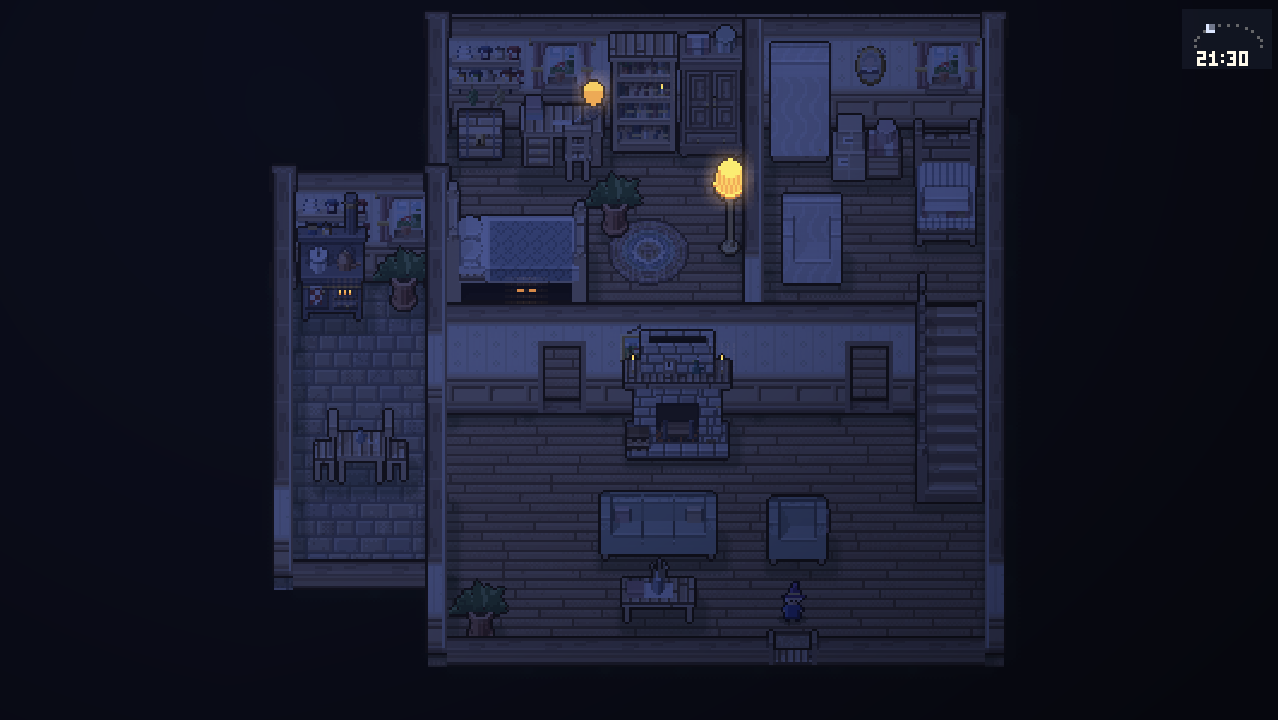
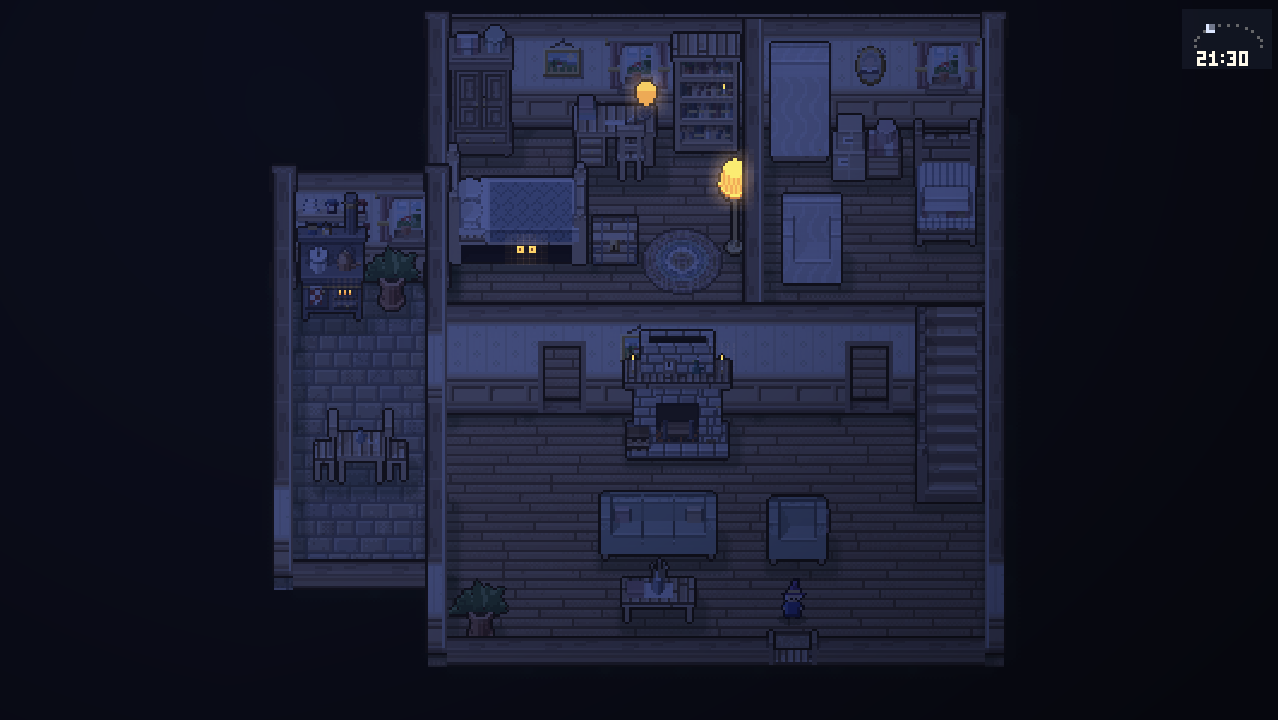
Close off the bedrooms, keep the stairs below the wall top, move the bed up
The wall between the bedrooms now runs to the back of the middle wall (its
end hidden behind it), so the rooms are fully separated and the strip behind
the middle wall no longer connects them. The stairs are cut at the wall's
height. The hero's bed moves up, the potted plant goes, and the furniture
along the back wall no longer overlaps.

Claude-Session: https://claude.ai/code/session_01Y3QepJTJgk9rCJ93wTDK78

Changed region(s): [[0.2746, 0.0306, 0.6103, 0.4278], [0.6103, 0.7944, 0.6408, 0.8556], [0.7019, 0.3972, 0.7324, 0.4278]]

diff --git a/tools/art/vale/home3d.py b/tools/art/vale/home3d.py
@@ -503,6 +503,9 @@ def stairs(spec):
         S.add(box(-w - 2.4, -w - 0.4, y - 1.5, y + run, (k + 1) * rise + 11.5, (k + 1) * rise + 13.5,
                   M.wood(DARKWOOD, bias=0.3)))
     cv = S.render()
+    for y in range(min(cv.h, S.base - 81)):  # the ceiling: nothing shows above the top step, so a
+        for x in range(cv.w):  # wall the stairs stand against hides the stairwell beyond it
+            cv.clear(x, y)
     S.finish(cv)
     return I._result(cv, "prop", (S.ox, S.base), fp(-w - 3, w + 2, n * run), S.sx(0), 14)
 

diff --git a/README.md b/README.md
@@ -188,13 +188,13 @@
 - 东南是湖：码头、小船、灯塔、港口仓库。北边是山脉远景。
 
 主角的家 `maps/home.json`，由 `tools/editor/make_home.gd` 生成，平面和房子外观一致：左边一个小侧屋（厨房），右边接着大一些的主屋，大门在主屋前墙中间偏右，房间都做得紧凑。屋外的部分是黑色的「屋外」地面，走不出去。
-- 主角的卧室（主屋左后）：小而满，收拾得整齐，窗下的书桌、书架、衣柜、储物箱、盆栽、地毯、落地灯。双人床横着靠墙放，床底下的黑暗里缩着主角偷偷养的小怪物：几乎看不见身子，只露出一双会眨、偶尔左右瞟的眼睛，夜里眼睛发出琥珀色的微光。
+- 主角的卧室（主屋左后）：小而满，收拾得整齐，窗下的书桌、书架、床头后的衣柜、床尾的储物箱、地毯、落地灯。双人床横着靠墙放在房间上半部，床底下的黑暗里缩着主角偷偷养的小怪物：几乎看不见身子，只露出一双会眨、偶尔左右瞟的眼睛，夜里眼睛发出琥珀色的微光。
 - 奶奶的房间（主屋右后）：奶奶去世后整理过了。床只剩光床垫，被褥叠好放在床尾；遗物装进捆好的箱子；扶手椅和柜子盖着防尘布；墙上挂着奶奶的肖像。
 - 客厅（主屋前半）：不常用。沙发、扶手椅、茶几，壁炉没有生火；右墙边是上阁楼的楼梯，大门进来脚下是门垫。
 - 厨房（侧屋）：很小，铺石板地，有灶台、墙上的碗碟架和一张两人用的小餐桌，侧墙上有门洞通到客厅。
 - 阁楼 `maps/home_attic.json`（`tools/editor/make_home_attic.gd`）：在主屋的屋顶下，矮墙上是屋顶木板和椽子，中间一根立柱撑着屋顶。老虎窗和外观一样在左边，窗下是主角的读书角（坐垫、毯子、一摞书、夜里亮的玻璃罐灯），四周堆着奶奶的旧箱子、纸箱、木箱和盖布的椅子。
 - 走到楼梯脚下就上到阁楼，走进阁楼的楼梯口就回到客厅（画面淡出再淡入）。地图里的建筑加上 `"to": 地图路径` 和 `"at": [x, y]` 就能这样连到别的地图。
-- 两间卧室的门开在中间那道墙上，前墙只画矮矮一条，免得挡住房间。画室内时注意：中间这类横墙会挡住它上方大约 45 像素，那一条只留作走路的地板，不要放家具。
+- 两间卧室的门开在中间那道墙上，前墙只画矮矮一条，免得挡住房间。两间卧室之间的隔墙一直通到中间那道墙的背面（墙头藏在它后面），两个房间完全隔开。画室内时注意：中间这类横墙会挡住它上方大约 45 像素，那一条只留作走路的地板，不要放家具。
 
 地图有「室内」开关（编辑器顶栏的「室内」勾选框，地图文件里的 `indoor`），室内地图夜里没有萤火虫。
 

diff --git a/CHANGELOG.md b/CHANGELOG.md
@@ -2,6 +2,13 @@
 
 按时间倒序记录每次更新。版本号用 `0.主版本.小版本`：画面方向或架构发生变化时加主版本号，同一方向上的调整加小版本号。括号里是对应的提交。
 
+## v0.18.1 · 修好墙的遮挡，床往上挪（2026-10-14）
+
+- **卧室隔墙**：主角和奶奶房间之间的隔墙一直通到中间那道墙，墙头不再露在中间墙上面。两个房间完全隔开，中间墙后面那条走道也走不过去了。
+- **楼梯**：顶端截在中间墙的高度，不再从墙头上冒出来、挡住奶奶的房间。
+- **主角的卧室**：双人床往上挪，床下的小怪物整个露出来。去掉了盆栽，衣柜挪到床头后面，书桌移到窗下，储物箱放在床尾，家具之间不再互相挡住。
+- **厨房**：盆栽从墙边挪开，叶子不再盖到墙上。
+
 ## v0.18.0 · 家的平面对上外观，加了阁楼（2026-10-14）
 
 - **主角的家重新布局**：平面和房子外观一致，左边是小侧屋（厨房），右边是大一些的主屋，大门在主屋前墙中间偏右。
